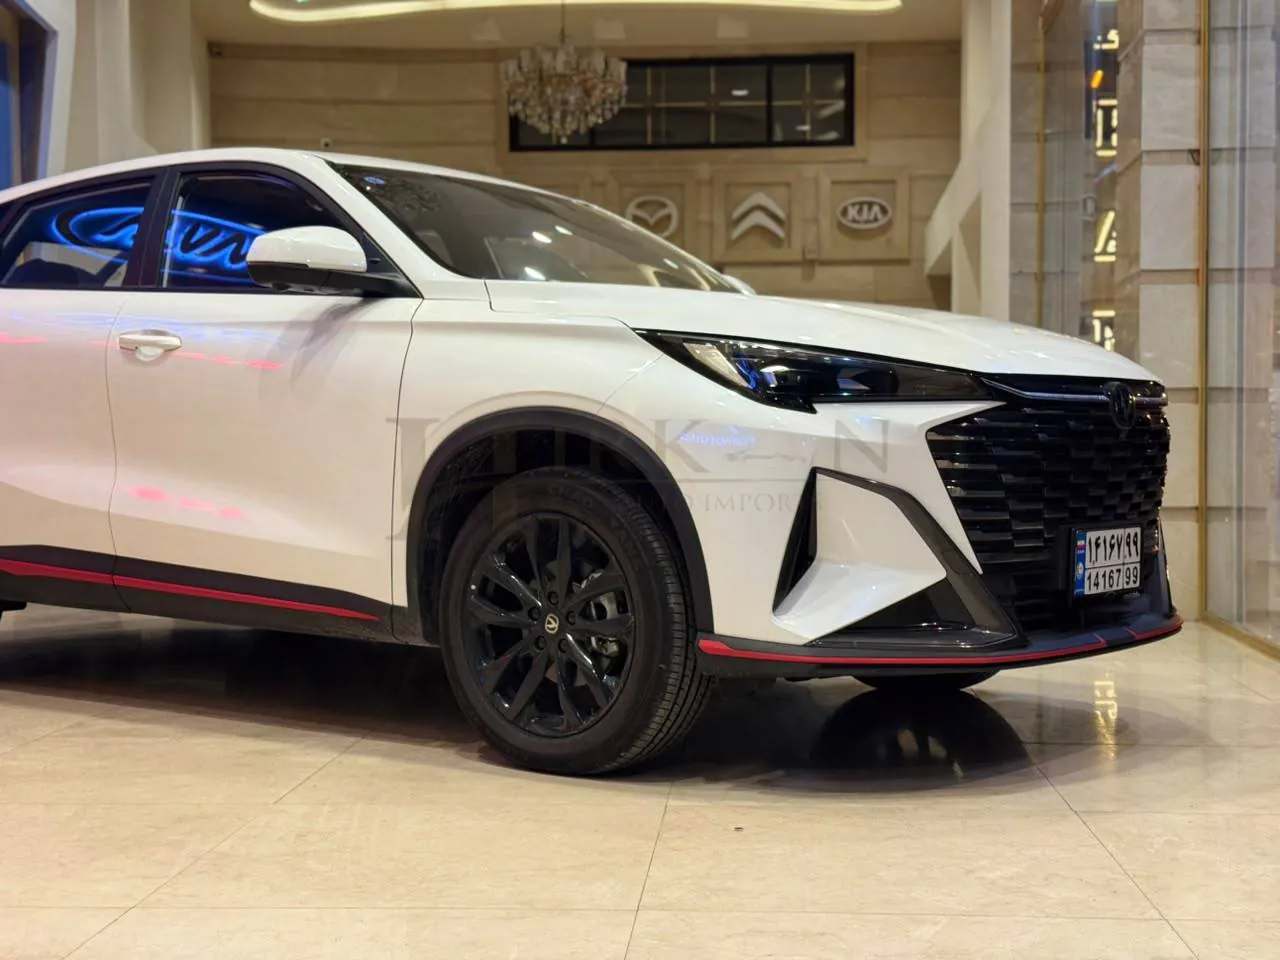
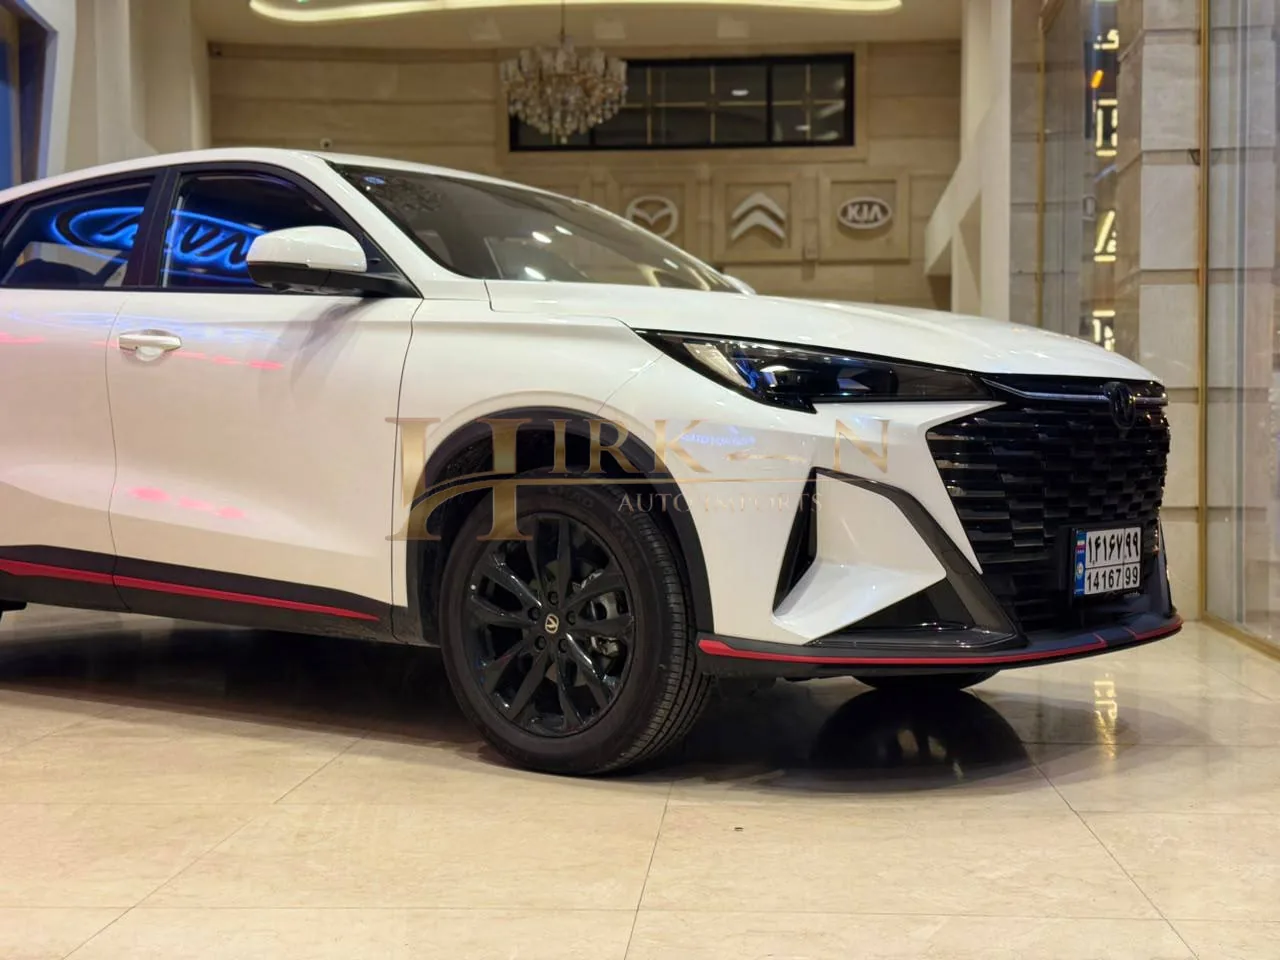
Add Hyundai Tucson listing; fix gold watermark rendering; portrait-friendly gallery
Claude-Session: https://claude.ai/code/session_011dCdcjQvmGhZUBETM19Mx8

Changed region(s): [[0.3125, 0.4375, 0.5625, 0.5625], [0.625, 0.4688, 0.6562, 0.5312], [0.6562, 0.4375, 0.6875, 0.4688]]

diff --git a/index.html b/index.html
@@ -146,7 +146,7 @@ section{padding-block:clamp(40px,7vw,80px)}
   background:linear-gradient(135deg,var(--chip),var(--maroon-deep));
   display:grid;place-items:center;color:var(--muted);user-select:none;-webkit-user-select:none;
 }
-.car .pic>img.photo{position:absolute;inset:0;width:100%;height:100%;object-fit:cover;-webkit-user-drag:none}
+.car .pic>img.photo{position:absolute;inset:0;width:100%;height:100%;object-fit:cover;object-position:50% 58%;-webkit-user-drag:none}
 .car .pic svg.ph{width:64%;height:auto;opacity:.7}
 .wm{position:absolute;inset:0;display:grid;place-items:center;pointer-events:none}
 .wm img{width:42%;max-height:70%;object-fit:contain;opacity:.25}
@@ -158,8 +158,8 @@ dialog.detail::backdrop{background:rgba(20,0,0,.8)}
 .dh h3{font-size:1.1rem;font-weight:900}
 .dx{font:inherit;cursor:pointer;min-height:40px;padding:4px 14px;border-radius:10px;background:var(--chip);color:var(--ink);border:1px solid var(--line)}
 .dbody{padding:18px;display:grid;gap:16px}
-.gal-main{position:relative;aspect-ratio:4/3;max-width:100%;background:var(--field);border-radius:16px;overflow:hidden;display:grid;place-items:center}
-.gal-main>img.big{width:100%;height:100%;object-fit:contain;-webkit-user-drag:none}
+.gal-main{position:relative;min-height:240px;max-width:100%;background:var(--field);border-radius:16px;overflow:hidden;display:grid;place-items:center}
+.gal-main>img.big{display:block;width:100%;height:auto;max-height:74vh;object-fit:contain;-webkit-user-drag:none}
 .gal-main .wm img{width:34%}
 .gnav{position:absolute;top:50%;transform:translateY(-50%);z-index:3;font:inherit;font-size:1.4rem;line-height:1;width:44px;height:44px;border-radius:50%;border:0;cursor:pointer;background:rgba(40,0,0,.75);color:var(--yellow)}
 .gnav.prev{right:10px}.gnav.next{left:10px}
